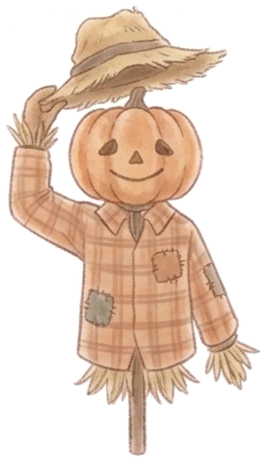
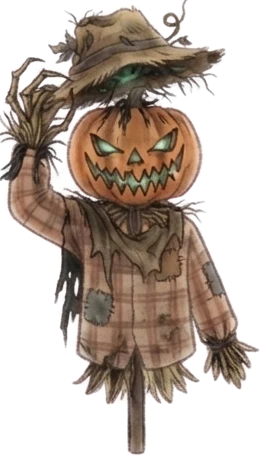
Little Hollow Halloween: the scarecrow turns haunting for a moment as he tips his hat; the cat fades in standing, then turns and sits
Claude-Session: https://claude.ai/code/session_019MTJUgo2eSoe3fVWqeMEns

diff --git a/index.html b/index.html
@@ -13,7 +13,7 @@
 <link rel="apple-touch-icon" href="apple-touch-icon.png">
 <link rel="icon" type="image/png" href="apple-touch-icon.png">
 <style>html,body{background:#252D2C;height:100%;margin:0}</style>
-<script>window.__plannerBuild = 'Nov 25, 5:17 PM';</script>
+<script>window.__plannerBuild = 'Nov 25, 5:20 PM';</script>
 <script src="dc-runtime.js"></script>
 </head>
 <body>
@@ -5750,7 +5750,7 @@ class Component extends DCLogic {
   // Theme accent colors are CSS variables (--tXXXXXX, named after the Flowery color they replace).
   // Theme packages: each is a self-contained theme.json (+ art) — built-in ones are bundled below; later, downloaded ones join the same list.
   themePackages() {
-    if (!this._pkgs) { this._pkgs = {}; const arr = /*THEME-PACKAGES*/[{"format":1,"id":"littlehollow","version":15,"kind":"storybook","updated":"2026-11-25","notes":["Spring blossom set","A squirrel on the branch","New friend: a robin who fluffs and shakes, then lets a blossom fall","New friend: a hedgehog by the basket who sniffs and smiles when a blossom lands","New friend: a caterpillar on the branch who reaches up and nudges a blossom loose","New friend: a bee who loops around her flower while a blossom drifts down","The basket under the branch fills with blossoms as you finish the day's Must do and Should do, and starts fresh each morning","Winter: a snowy branch with red berries, a snowy meadow, and a basket that fills with pinecones (December to February)","New winter friends: a chickadee who puffs up against the cold, and a bunny in a scarf whose ears perk up","More winter friends: a cardinal who hops, a sleepy bear cub who peeks with one eye, and a fox curled in her tail","Christmas: fairy lights on Christmas Eve; colorful lights and a snowman friend on Christmas Day","Autumn (September to November): a branch with orange and gold leaves, a meadow with mushrooms and a little pumpkin, and a basket that fills with acorns. The squirrel is back","New autumn friends: a sleepy owlet who blinks awake, and a chipmunk who puffs her cheeks","New autumn friend: a raccoon by the basket. Special days: a turkey on Thanksgiving; on Halloween a black cat walks along the branch and a pumpkin scarecrow tips his hat"],"name":"Little Hollow","blurb":"A little tree, a meadow and woodland friends who visit as the seasons change.","storybook":true,"perks":["Animated","Changes with the seasons","Rotating animal friends"],"card":"card.webp","art":"img","binder":{"cover":"linen","rings":"brass"},"tabPal":["#B06F80","#879A76","#9C8270","#B48A5A","#7E5A6E"],"tabs":{"day":["#F4D9DE","#A0526A"],"week":["#F6DCCB","#B5683F"],"month":["#DCE6D3","#5E7F55"],"desk":["#F3E6B8","#8F7020"],"goals":["#E4DAEE","#6E5A94"],"school":["#D6E2EC","#4C6F8F"],"journal":["#ECD6E0","#8A4E6B"]},"vars":{"FBEDEE":"#F6EEE9","F6EDEF":"#F5EFEA","FAEAEE":"#F6EDE8","F3E6EA":"#F1E8E3","E2B9C4":"#DCC6BF","E7B7C2":"#DFC8C1","EBC3CD":"#E6D2CB"},"swatches":{"red":["Blossom","#B5707A"],"yellow":["Honey","#C29A4E"],"blue":["Dusk","#7A8FA6"],"green":["Sage","#879A76"],"orange":["Acorn","#B5835A"],"gray":["Taupe","#9C8270"]},"catSwatches":{"blue":["Dusk","#6E86A0"],"orange":["Acorn","#B07A52"],"green":["Sage","#77906A"],"rose":["Blossom","#A8667A"],"plum":["Plum","#6E2F43"],"gold":["Honey","#A88A44"],"teal":["Moss","#5E8E88"],"lavender":["Lilac","#8A779E"],"slate":["Stone","#7E7A74"],"brown":["Bark","#8A6A50"]},"fHead":"'Olesia', 'Dancing Script', Georgia, serif","fBody":"'Atkinson Hyperlegible', system-ui, -apple-system, sans-serif","fontFace":{"family":"Olesia","file":"olesia.woff2"},"paper":"#FBF7F1","quote":"Every blossom opens in its own time, and so will you.","quotes":["Every blossom opens in its own time, and so will you.","Small steps still bloom.","Tend to today. Tomorrow will keep.","Rest is part of growing.","One petal at a time.","You are allowed to go slowly.","Plant one good thing today."],"img":{"dir":"themes/littlehollow/","paper":"paper.webp"},"scene":{"sets":[{"id":"spring-blossom","name":"Spring blossom","months":[],"perch":0.89,"under":[{"page":"L","anchor":"spread","src":"branch-2.webp","ar":4.068,"h":226,"y":-26,"padH":190},{"page":"R","anchor":"spread","src":"branch-2.webp","ar":4.068,"h":226,"y":-26,"padH":190},{"page":"L","anchor":"spreadBottom","src":"grass.webp","h":96,"y":0},{"page":"R","anchor":"spreadBottom","src":"grass.webp","h":96,"y":0}],"extras":[{"page":"R","anchor":"bl","src":"snail.webp","w":34,"h":25,"x":300,"y":4},{"page":"R","anchor":"bl","src":"bee.webp","w":26,"h":23,"x":250,"y":58}],"pile":{"page":"R","anchor":"underPerch","x":120,"y":2,"w":84,"h":106,"states":[{"src":"basket-spring-0.webp","pct":0},{"src":"basket-spring-1.webp","pct":1},{"src":"basket-spring-2.webp","pct":34},{"src":"basket-spring-3.webp","pct":67},{"src":"basket-spring-4.webp","pct":100}],"dx":-58,"per":"day"},"item":{"name":"blossom","src":"blossom.webp","w":18,"h":17},"driftY":118},{"id":"autumn-leaves","name":"Autumn leaves","months":[9,10,11],"perch":0.89,"under":[{"page":"L","anchor":"spread","src":"branch-autumn.webp","ar":3.229,"h":285,"y":-26,"padH":190},{"page":"R","anchor":"spread","src":"branch-autumn.webp","ar":3.229,"h":285,"y":-26,"padH":190},{"page":"L","anchor":"spreadBottom","src":"grass-autumn.webp","h":90,"y":0},{"page":"R","anchor":"spreadBottom","src":"grass-autumn.webp","h":90,"y":0}],"extras":[],"pile":{"page":"R","anchor":"underPerch","x":120,"y":2,"w":84,"h":106,"states":[{"src":"basket-autumn-0.webp","pct":0},{"src":"basket-autumn-1.webp","pct":1},{"src":"basket-autumn-2.webp","pct":34},{"src":"basket-autumn-3.webp","pct":67},{"src":"basket-autumn-4.webp","pct":100}],"dx":-58,"per":"day"},"item":{"name":"acorn","src":"acorn-autumn.webp","w":15,"h":17},"driftY":118,"quotes":["Gather what you can; let the rest fall.","Even small acorns grow into something strong.","Slow down and notice the colors.","Change can be beautiful too.","One acorn at a time.","It's okay to rest and store up your energy.","Little by little, the basket fills."]},{"id":"winter-snow","name":"Winter snow","months":[12,1,2],"perch":0.89,"under":[{"page":"L","anchor":"spread","src":"branch-winter.webp","ar":4.068,"h":226,"y":-26,"padH":190},{"page":"R","anchor":"spread","src":"branch-winter.webp","ar":4.068,"h":226,"y":-26,"padH":190},{"page":"L","anchor":"spreadBottom","src":"grass-winter.webp","h":104,"y":0},{"page":"R","anchor":"spreadBottom","src":"grass-winter.webp","h":104,"y":0}],"extras":[],"pile":{"page":"R","anchor":"underPerch","x":120,"y":2,"w":84,"h":106,"states":[{"src":"basket-winter-0.webp","pct":0},{"src":"basket-winter-1.webp","pct":1},{"src":"basket-winter-2.webp","pct":34},{"src":"basket-winter-3.webp","pct":67},{"src":"basket-winter-4.webp","pct":100}],"dx":-58,"per":"day"},"item":{"name":"pinecone","src":"pinecone.webp","w":15,"h":17},"driftY":118,"quotes":["Rest is part of the season too.","Even bare branches are getting ready to bloom.","Slow and cozy still counts.","Small steps leave footprints in the snow.","Keep a little warmth for yourself today.","Quiet days are growing days.","One pinecone at a time."]}],"casts":[{"id":"squirrels","name":"A squirrel on the branch","over":[{"page":"R","anchor":"onStrip","src":"squirrel-toss-empty.webp","w":126,"h":74,"x":56,"y":41,"holds":{"x":-2,"y":49}}],"moment":"drop","sets":["autumn-leaves"]},{"id":"raccoon","name":"A raccoon by the basket","sets":["autumn-leaves"],"over":[{"page":"R","anchor":"byPile","src":"raccoon-1.webp","w":83,"h":68,"x":6,"y":3,"frames":[{"src":"raccoon-2.webp","from":1.3,"to":2.3},{"src":"raccoon-3.webp","from":2.3,"to":3.4}]}]},{"id":"chipmunk","name":"A chipmunk on the branch","moment":"drop","sets":["autumn-leaves"],"dropDelay":0.6,"over":[{"page":"R","anchor":"onStrip","src":"chipmunk-1.webp","w":77,"h":66,"x":56,"y":50,"holds":{"x":55,"y":33},"xfade":0.15,"frames":[{"src":"chipmunk-2.webp","from":0.0,"to":0.7},{"src":"chipmunk-3.webp","from":0.7,"to":1.7}]}]},{"id":"owlet","name":"An owlet on the branch","moment":"drop","sets":["autumn-leaves"],"dropDelay":0.5,"over":[{"page":"R","anchor":"onStrip","src":"owlet-1.webp","w":59,"h":63,"x":56,"y":54,"holds":{"x":4,"y":31},"xfade":0.15,"frames":[{"src":"owlet-2.webp","from":0.0,"to":0.6},{"src":"owlet-3.webp","from":0.6,"to":1.6}]}]},{"id":"bee","name":"A bee and her flower","over":[{"page":"R","anchor":"bl","src":"bee-flower.webp","w":36,"h":102,"x":150,"y":4},{"page":"R","anchor":"bl","src":"bee-wings-up.webp","srcFlap":"bee-wings-down.webp","w":34,"h":33,"x":166,"y":86,"buzz":true}],"hide":["bee.webp"],"sets":["spring-blossom"]},{"id":"robin","name":"A robin on the branch","moment":"drop","over":[{"page":"R","anchor":"onStrip","src":"robin-1.webp","srcFlap":"robin-2.webp","shake":true,"w":90,"h":78,"x":56,"y":53,"holds":{"x":6,"y":21}}],"sets":["spring-blossom"]},{"id":"hedgehog","name":"A hedgehog by the basket","over":[{"page":"R","anchor":"byPile","src":"hedgehog-1.webp","w":66,"h":48,"x":6,"y":3,"frames":[{"src":"hedgehog-2.webp","from":1.3,"to":2.3},{"src":"hedgehog-3.webp","from":2.3,"to":3.4}]}],"hide":["snail.webp"],"sets":["spring-blossom"]},{"id":"caterpillar","name":"A caterpillar on the branch","dropDelay":0.75,"over":[{"page":"R","anchor":"onStrip","src":"caterpillar-1.webp","w":74,"h":61,"x":56,"y":69,"frames":[{"src":"caterpillar-2.webp","from":0.05,"to":1.0},{"src":"caterpillar-3.webp","from":1.0,"to":2.7}]}],"nudge":{"x":58,"y":46},"sets":["spring-blossom"]},{"id":"chickadee","name":"A chickadee on the branch","moment":"drop","sets":["winter-snow"],"over":[{"page":"R","anchor":"onStrip","src":"chickadee-1.webp","srcFlap":"chickadee-2.webp","shake":true,"w":84,"h":57,"x":56,"y":61,"holds":{"x":0,"y":8}}]},{"id":"bear","name":"A sleepy bear cub","sets":["winter-snow"],"over":[{"page":"R","anchor":"byPile","src":"bear-1.webp","w":82,"h":55,"x":6,"y":3,"frames":[{"src":"bear-2.webp","from":1.3,"to":2.3},{"src":"bear-3.webp","from":2.3,"to":3.4}]}]},{"id":"cardinal","name":"A cardinal on the branch","moment":"drop","sets":["winter-snow"],"dropDelay":0.1,"over":[{"page":"R","anchor":"onStrip","src":"cardinal-1.webp","w":90,"h":72,"x":56,"y":46,"holds":{"x":-4,"y":29},"xfade":0.08,"frames":[{"src":"cardinal-2.webp","from":0.0,"to":0.4},{"src":"cardinal-3.webp","from":0.4,"to":1.3}]}]},{"id":"bunny","name":"A bunny in a scarf","sets":["winter-snow"],"over":[{"page":"R","anchor":"byPile","src":"bunny-1.webp","w":64,"h":73,"x":6,"y":3,"frames":[{"src":"bunny-2.webp","from":1.3,"to":2.3},{"src":"bunny-3.webp","from":2.3,"to":3.4}]}]},{"id":"fox","name":"A fox curled in her tail","sets":["winter-snow"],"over":[{"page":"R","anchor":"byPile","src":"fox-1.webp","w":82,"h":73,"x":6,"y":3,"frames":[{"src":"fox-2.webp","from":1.3,"to":2.3},{"src":"fox-3.webp","from":2.3,"to":3.4}]}]},{"id":"snowman","name":"A snowman (Christmas Day)","sets":[],"over":[{"page":"R","anchor":"byPileR","src":"snowman-1.webp","w":104,"h":154,"x":8,"y":2,"frames":[{"src":"snowman-2.webp","from":1.3,"to":2.3},{"src":"snowman-3.webp","from":2.3,"to":3.4}]}]},{"id":"turkey","name":"A turkey (Thanksgiving)","sets":[],"over":[{"page":"R","anchor":"byPileR","src":"turkey-1.webp","w":132,"h":122,"x":10,"y":2,"frames":[{"src":"turkey-2.webp","from":1.3,"to":2.3},{"src":"turkey-3.webp","from":2.3,"to":3.4}]}]},{"id":"halloween","name":"A black cat and a pumpkin scarecrow (Halloween)","sets":[],"over":[{"page":"R","anchor":"onStrip","src":"cat-3.webp","w":68,"h":64,"x":56,"y":52,"arrive":{"walk":["cat-1.webp","cat-2.webp"],"from":150,"dur":1.9},"xfade":0.2,"frames":[{"src":"cat-4.webp","from":0.2,"to":1.8}]},{"page":"R","anchor":"byPileR","src":"scarecrow-1.webp","w":88,"h":152,"x":6,"y":2,"frames":[{"src":"scarecrow-2.webp","from":1.3,"to":2.3},{"src":"scarecrow-3.webp","from":2.3,"to":3.4}]}]}],"quote":"underDate","quoteClear":170,"quoteY":88,"specials":[{"id":"christmas-eve","name":"Christmas Eve","date":"12-24","sets":["winter-snow"],"swap":{"branch-winter.webp":{"src":"branch-xmas-eve.webp","ar":3.229,"h":285}},"quotes":["The quietest night is full of little lights."]},{"id":"christmas","name":"Christmas Day","date":"12-25","sets":["winter-snow"],"cast":"snowman","swap":{"branch-winter.webp":{"src":"branch-xmas-day.webp","ar":3.229,"h":285}},"quotes":["Merry Christmas. Rest is a gift too."],"pile":{"dx":-150}},{"id":"thanksgiving","name":"Thanksgiving","rule":"nth:11:4:4","sets":["autumn-leaves"],"cast":"turkey","pile":{"dx":-150},"quotes":["Grateful for every small step."]},{"id":"halloween","name":"Halloween","date":"10-31","sets":["autumn-leaves"],"cast":"halloween","pile":{"dx":-150},"quotes":["A little magic in every small step."]}]}}]/*END-THEME-PACKAGES*/; arr.forEach(p => { this._pkgs[p.id] = p; }); }
+    if (!this._pkgs) { this._pkgs = {}; const arr = /*THEME-PACKAGES*/[{"format":1,"id":"littlehollow","version":15,"kind":"storybook","updated":"2026-11-25","notes":["Spring blossom set","A squirrel on the branch","New friend: a robin who fluffs and shakes, then lets a blossom fall","New friend: a hedgehog by the basket who sniffs and smiles when a blossom lands","New friend: a caterpillar on the branch who reaches up and nudges a blossom loose","New friend: a bee who loops around her flower while a blossom drifts down","The basket under the branch fills with blossoms as you finish the day's Must do and Should do, and starts fresh each morning","Winter: a snowy branch with red berries, a snowy meadow, and a basket that fills with pinecones (December to February)","New winter friends: a chickadee who puffs up against the cold, and a bunny in a scarf whose ears perk up","More winter friends: a cardinal who hops, a sleepy bear cub who peeks with one eye, and a fox curled in her tail","Christmas: fairy lights on Christmas Eve; colorful lights and a snowman friend on Christmas Day","Autumn (September to November): a branch with orange and gold leaves, a meadow with mushrooms and a little pumpkin, and a basket that fills with acorns. The squirrel is back","New autumn friends: a sleepy owlet who blinks awake, and a chipmunk who puffs her cheeks","New autumn friend: a raccoon by the basket. Special days: a turkey on Thanksgiving; on Halloween a black cat walks along the branch and a pumpkin scarecrow tips his hat"],"name":"Little Hollow","blurb":"A little tree, a meadow and woodland friends who visit as the seasons change.","storybook":true,"perks":["Animated","Changes with the seasons","Rotating animal friends"],"card":"card.webp","art":"img","binder":{"cover":"linen","rings":"brass"},"tabPal":["#B06F80","#879A76","#9C8270","#B48A5A","#7E5A6E"],"tabs":{"day":["#F4D9DE","#A0526A"],"week":["#F6DCCB","#B5683F"],"month":["#DCE6D3","#5E7F55"],"desk":["#F3E6B8","#8F7020"],"goals":["#E4DAEE","#6E5A94"],"school":["#D6E2EC","#4C6F8F"],"journal":["#ECD6E0","#8A4E6B"]},"vars":{"FBEDEE":"#F6EEE9","F6EDEF":"#F5EFEA","FAEAEE":"#F6EDE8","F3E6EA":"#F1E8E3","E2B9C4":"#DCC6BF","E7B7C2":"#DFC8C1","EBC3CD":"#E6D2CB"},"swatches":{"red":["Blossom","#B5707A"],"yellow":["Honey","#C29A4E"],"blue":["Dusk","#7A8FA6"],"green":["Sage","#879A76"],"orange":["Acorn","#B5835A"],"gray":["Taupe","#9C8270"]},"catSwatches":{"blue":["Dusk","#6E86A0"],"orange":["Acorn","#B07A52"],"green":["Sage","#77906A"],"rose":["Blossom","#A8667A"],"plum":["Plum","#6E2F43"],"gold":["Honey","#A88A44"],"teal":["Moss","#5E8E88"],"lavender":["Lilac","#8A779E"],"slate":["Stone","#7E7A74"],"brown":["Bark","#8A6A50"]},"fHead":"'Olesia', 'Dancing Script', Georgia, serif","fBody":"'Atkinson Hyperlegible', system-ui, -apple-system, sans-serif","fontFace":{"family":"Olesia","file":"olesia.woff2"},"paper":"#FBF7F1","quote":"Every blossom opens in its own time, and so will you.","quotes":["Every blossom opens in its own time, and so will you.","Small steps still bloom.","Tend to today. Tomorrow will keep.","Rest is part of growing.","One petal at a time.","You are allowed to go slowly.","Plant one good thing today."],"img":{"dir":"themes/littlehollow/","paper":"paper.webp"},"scene":{"sets":[{"id":"spring-blossom","name":"Spring blossom","months":[],"perch":0.89,"under":[{"page":"L","anchor":"spread","src":"branch-2.webp","ar":4.068,"h":226,"y":-26,"padH":190},{"page":"R","anchor":"spread","src":"branch-2.webp","ar":4.068,"h":226,"y":-26,"padH":190},{"page":"L","anchor":"spreadBottom","src":"grass.webp","h":96,"y":0},{"page":"R","anchor":"spreadBottom","src":"grass.webp","h":96,"y":0}],"extras":[{"page":"R","anchor":"bl","src":"snail.webp","w":34,"h":25,"x":300,"y":4},{"page":"R","anchor":"bl","src":"bee.webp","w":26,"h":23,"x":250,"y":58}],"pile":{"page":"R","anchor":"underPerch","x":120,"y":2,"w":84,"h":106,"states":[{"src":"basket-spring-0.webp","pct":0},{"src":"basket-spring-1.webp","pct":1},{"src":"basket-spring-2.webp","pct":34},{"src":"basket-spring-3.webp","pct":67},{"src":"basket-spring-4.webp","pct":100}],"dx":-58,"per":"day"},"item":{"name":"blossom","src":"blossom.webp","w":18,"h":17},"driftY":118},{"id":"autumn-leaves","name":"Autumn leaves","months":[9,10,11],"perch":0.89,"under":[{"page":"L","anchor":"spread","src":"branch-autumn.webp","ar":3.229,"h":285,"y":-26,"padH":190},{"page":"R","anchor":"spread","src":"branch-autumn.webp","ar":3.229,"h":285,"y":-26,"padH":190},{"page":"L","anchor":"spreadBottom","src":"grass-autumn.webp","h":90,"y":0},{"page":"R","anchor":"spreadBottom","src":"grass-autumn.webp","h":90,"y":0}],"extras":[],"pile":{"page":"R","anchor":"underPerch","x":120,"y":2,"w":84,"h":106,"states":[{"src":"basket-autumn-0.webp","pct":0},{"src":"basket-autumn-1.webp","pct":1},{"src":"basket-autumn-2.webp","pct":34},{"src":"basket-autumn-3.webp","pct":67},{"src":"basket-autumn-4.webp","pct":100}],"dx":-58,"per":"day"},"item":{"name":"acorn","src":"acorn-autumn.webp","w":15,"h":17},"driftY":118,"quotes":["Gather what you can; let the rest fall.","Even small acorns grow into something strong.","Slow down and notice the colors.","Change can be beautiful too.","One acorn at a time.","It's okay to rest and store up your energy.","Little by little, the basket fills."]},{"id":"winter-snow","name":"Winter snow","months":[12,1,2],"perch":0.89,"under":[{"page":"L","anchor":"spread","src":"branch-winter.webp","ar":4.068,"h":226,"y":-26,"padH":190},{"page":"R","anchor":"spread","src":"branch-winter.webp","ar":4.068,"h":226,"y":-26,"padH":190},{"page":"L","anchor":"spreadBottom","src":"grass-winter.webp","h":104,"y":0},{"page":"R","anchor":"spreadBottom","src":"grass-winter.webp","h":104,"y":0}],"extras":[],"pile":{"page":"R","anchor":"underPerch","x":120,"y":2,"w":84,"h":106,"states":[{"src":"basket-winter-0.webp","pct":0},{"src":"basket-winter-1.webp","pct":1},{"src":"basket-winter-2.webp","pct":34},{"src":"basket-winter-3.webp","pct":67},{"src":"basket-winter-4.webp","pct":100}],"dx":-58,"per":"day"},"item":{"name":"pinecone","src":"pinecone.webp","w":15,"h":17},"driftY":118,"quotes":["Rest is part of the season too.","Even bare branches are getting ready to bloom.","Slow and cozy still counts.","Small steps leave footprints in the snow.","Keep a little warmth for yourself today.","Quiet days are growing days.","One pinecone at a time."]}],"casts":[{"id":"squirrels","name":"A squirrel on the branch","over":[{"page":"R","anchor":"onStrip","src":"squirrel-toss-empty.webp","w":126,"h":74,"x":56,"y":41,"holds":{"x":-2,"y":49}}],"moment":"drop","sets":["autumn-leaves"]},{"id":"raccoon","name":"A raccoon by the basket","sets":["autumn-leaves"],"over":[{"page":"R","anchor":"byPile","src":"raccoon-1.webp","w":83,"h":68,"x":6,"y":3,"frames":[{"src":"raccoon-2.webp","from":1.3,"to":2.3},{"src":"raccoon-3.webp","from":2.3,"to":3.4}]}]},{"id":"chipmunk","name":"A chipmunk on the branch","moment":"drop","sets":["autumn-leaves"],"dropDelay":0.6,"over":[{"page":"R","anchor":"onStrip","src":"chipmunk-1.webp","w":77,"h":66,"x":56,"y":50,"holds":{"x":55,"y":33},"xfade":0.15,"frames":[{"src":"chipmunk-2.webp","from":0.0,"to":0.7},{"src":"chipmunk-3.webp","from":0.7,"to":1.7}]}]},{"id":"owlet","name":"An owlet on the branch","moment":"drop","sets":["autumn-leaves"],"dropDelay":0.5,"over":[{"page":"R","anchor":"onStrip","src":"owlet-1.webp","w":59,"h":63,"x":56,"y":54,"holds":{"x":4,"y":31},"xfade":0.15,"frames":[{"src":"owlet-2.webp","from":0.0,"to":0.6},{"src":"owlet-3.webp","from":0.6,"to":1.6}]}]},{"id":"bee","name":"A bee and her flower","over":[{"page":"R","anchor":"bl","src":"bee-flower.webp","w":36,"h":102,"x":150,"y":4},{"page":"R","anchor":"bl","src":"bee-wings-up.webp","srcFlap":"bee-wings-down.webp","w":34,"h":33,"x":166,"y":86,"buzz":true}],"hide":["bee.webp"],"sets":["spring-blossom"]},{"id":"robin","name":"A robin on the branch","moment":"drop","over":[{"page":"R","anchor":"onStrip","src":"robin-1.webp","srcFlap":"robin-2.webp","shake":true,"w":90,"h":78,"x":56,"y":53,"holds":{"x":6,"y":21}}],"sets":["spring-blossom"]},{"id":"hedgehog","name":"A hedgehog by the basket","over":[{"page":"R","anchor":"byPile","src":"hedgehog-1.webp","w":66,"h":48,"x":6,"y":3,"frames":[{"src":"hedgehog-2.webp","from":1.3,"to":2.3},{"src":"hedgehog-3.webp","from":2.3,"to":3.4}]}],"hide":["snail.webp"],"sets":["spring-blossom"]},{"id":"caterpillar","name":"A caterpillar on the branch","dropDelay":0.75,"over":[{"page":"R","anchor":"onStrip","src":"caterpillar-1.webp","w":74,"h":61,"x":56,"y":69,"frames":[{"src":"caterpillar-2.webp","from":0.05,"to":1.0},{"src":"caterpillar-3.webp","from":1.0,"to":2.7}]}],"nudge":{"x":58,"y":46},"sets":["spring-blossom"]},{"id":"chickadee","name":"A chickadee on the branch","moment":"drop","sets":["winter-snow"],"over":[{"page":"R","anchor":"onStrip","src":"chickadee-1.webp","srcFlap":"chickadee-2.webp","shake":true,"w":84,"h":57,"x":56,"y":61,"holds":{"x":0,"y":8}}]},{"id":"bear","name":"A sleepy bear cub","sets":["winter-snow"],"over":[{"page":"R","anchor":"byPile","src":"bear-1.webp","w":82,"h":55,"x":6,"y":3,"frames":[{"src":"bear-2.webp","from":1.3,"to":2.3},{"src":"bear-3.webp","from":2.3,"to":3.4}]}]},{"id":"cardinal","name":"A cardinal on the branch","moment":"drop","sets":["winter-snow"],"dropDelay":0.1,"over":[{"page":"R","anchor":"onStrip","src":"cardinal-1.webp","w":90,"h":72,"x":56,"y":46,"holds":{"x":-4,"y":29},"xfade":0.08,"frames":[{"src":"cardinal-2.webp","from":0.0,"to":0.4},{"src":"cardinal-3.webp","from":0.4,"to":1.3}]}]},{"id":"bunny","name":"A bunny in a scarf","sets":["winter-snow"],"over":[{"page":"R","anchor":"byPile","src":"bunny-1.webp","w":64,"h":73,"x":6,"y":3,"frames":[{"src":"bunny-2.webp","from":1.3,"to":2.3},{"src":"bunny-3.webp","from":2.3,"to":3.4}]}]},{"id":"fox","name":"A fox curled in her tail","sets":["winter-snow"],"over":[{"page":"R","anchor":"byPile","src":"fox-1.webp","w":82,"h":73,"x":6,"y":3,"frames":[{"src":"fox-2.webp","from":1.3,"to":2.3},{"src":"fox-3.webp","from":2.3,"to":3.4}]}]},{"id":"snowman","name":"A snowman (Christmas Day)","sets":[],"over":[{"page":"R","anchor":"byPileR","src":"snowman-1.webp","w":104,"h":154,"x":8,"y":2,"frames":[{"src":"snowman-2.webp","from":1.3,"to":2.3},{"src":"snowman-3.webp","from":2.3,"to":3.4}]}]},{"id":"turkey","name":"A turkey (Thanksgiving)","sets":[],"over":[{"page":"R","anchor":"byPileR","src":"turkey-1.webp","w":132,"h":122,"x":10,"y":2,"frames":[{"src":"turkey-2.webp","from":1.3,"to":2.3},{"src":"turkey-3.webp","from":2.3,"to":3.4}]}]},{"id":"halloween","name":"A black cat and a pumpkin scarecrow (Halloween)","sets":[],"over":[{"page":"R","anchor":"onStrip","src":"cat-3.webp","w":68,"h":64,"x":56,"y":52,"arrive":{"walk":["cat-1.webp"],"from":0,"dur":2.0},"xfade":0.2,"frames":[{"src":"cat-4.webp","from":0.2,"to":1.8}]},{"page":"R","anchor":"byPileR","src":"scarecrow-1.webp","w":88,"h":152,"x":6,"y":2,"frames":[{"src":"scarecrow-2.webp","from":1.3,"to":2.3},{"src":"scarecrow-3.webp","from":2.3,"to":3.4}]}]}],"quote":"underDate","quoteClear":170,"quoteY":88,"specials":[{"id":"christmas-eve","name":"Christmas Eve","date":"12-24","sets":["winter-snow"],"swap":{"branch-winter.webp":{"src":"branch-xmas-eve.webp","ar":3.229,"h":285}},"quotes":["The quietest night is full of little lights."]},{"id":"christmas","name":"Christmas Day","date":"12-25","sets":["winter-snow"],"cast":"snowman","swap":{"branch-winter.webp":{"src":"branch-xmas-day.webp","ar":3.229,"h":285}},"quotes":["Merry Christmas. Rest is a gift too."],"pile":{"dx":-150}},{"id":"thanksgiving","name":"Thanksgiving","rule":"nth:11:4:4","sets":["autumn-leaves"],"cast":"turkey","pile":{"dx":-150},"quotes":["Grateful for every small step."]},{"id":"halloween","name":"Halloween","date":"10-31","sets":["autumn-leaves"],"cast":"halloween","pile":{"dx":-150},"quotes":["A little magic in every small step."]}]}}]/*END-THEME-PACKAGES*/; arr.forEach(p => { this._pkgs[p.id] = p; }); }
     return this._pkgs;
   }
   themeDef(id) {
@@ -5927,8 +5927,14 @@ class Component extends DCLogic {
           kf('sceneWalk' + n + '_' + from, 'from{translate:' + from + 'px 0}to{translate:0 0}');
           kf('sceneStepA' + n, '0%{opacity:1}50%{opacity:0}'); kf('sceneStepB' + n, '0%{opacity:0}50%{opacity:1}');
           kf('sceneSitIn' + n, '0%{opacity:0}97%{opacity:0}100%{opacity:1}');
-          ly.arrive.walk.forEach((w, i) => { const wb = box(Object.assign({}, ly, { src: w, frames: null, arrive: null, _friend: false, srcFlap: null })); wb.op = '0'; wb.anim = 'sceneWalk' + n + '_' + from + ' ' + D + 's linear forwards, ' + (i ? 'sceneStepB' : 'sceneStepA') + n + ' ' + st + 's steps(1) ' + it; out.push(wb); });
-          arr = 'sceneSitIn' + n + ' ' + D + 's linear both';
+          if (ly.arrive.walk.length === 1 && !ly.arrive.from) {
+            // she fades in standing, holds a moment, then turns and sits
+            kf('sceneStandIn' + n, '0%{opacity:0}22%{opacity:1}80%{opacity:1}100%{opacity:0}');
+            kf('sceneSitIn2' + n, '0%{opacity:0}80%{opacity:0}100%{opacity:1}');
+            const wb = box(Object.assign({}, ly, { src: ly.arrive.walk[0], frames: null, arrive: null, _friend: false, srcFlap: null })); wb.op = '0'; wb.anim = 'sceneStandIn' + n + ' ' + D + 's linear forwards'; out.push(wb);
+            arr = 'sceneSitIn2' + n + ' ' + D + 's linear both';
+          } else ly.arrive.walk.forEach((w, i) => { const wb = box(Object.assign({}, ly, { src: w, frames: null, arrive: null, _friend: false, srcFlap: null })); wb.op = '0'; wb.anim = 'sceneWalk' + n + '_' + from + ' ' + D + 's linear forwards, ' + (i ? 'sceneStepB' : 'sceneStepA') + n + ' ' + st + 's steps(1) ' + it; out.push(wb); });
+          if (!arr) arr = 'sceneSitIn' + n + ' ' + D + 's linear both';
         }
         const b = box(ly); out.push(b);
         if (arr) b.anim = arr + (s.sceneDrop && b.anim && b.anim.indexOf('sceneIn') !== 0 ? ', ' + b.anim : '');
@@ -6118,7 +6124,7 @@ class Component extends DCLogic {
   // Art for image themes: files next to the GitHub page, or the claude.ai copy's uploaded assets.
   themeAsset(t, name) {
     if (!t || !t.img || !name) return '';
-    const map = {'themes/littlehollow/raccoon-1.webp': '/_blob/8ab8c94d6119541cf7b34577689655c4', 'themes/littlehollow/raccoon-2.webp': '/_blob/9c9ee16cb02caab40edd0c3edd3f8943', 'themes/littlehollow/raccoon-3.webp': '/_blob/32652015e91e3a64eacc54ed6957fc17', 'themes/littlehollow/turkey-1.webp': '/_blob/5b37a8680d0837fe81fe76e02b217d09', 'themes/littlehollow/turkey-2.webp': '/_blob/bfa2f094fc87c844832a97433102927f', 'themes/littlehollow/turkey-3.webp': '/_blob/9083247f38bd09e352f1ea618f2e5bd0', 'themes/littlehollow/cat-1.webp': '/_blob/36f8bab6b412939c16b5e4af44dad498', 'themes/littlehollow/cat-2.webp': '/_blob/3a5b0eb83cc8c65323c6512e58507ca3', 'themes/littlehollow/cat-3.webp': '/_blob/30808d61a907b5bac45ef7eabd8ffb67', 'themes/littlehollow/cat-4.webp': '/_blob/b4df782a3373178c95310ea88cb71636', 'themes/littlehollow/scarecrow-1.webp': '/_blob/963d64c51e701b453dea25718e34cad3', 'themes/littlehollow/scarecrow-2.webp': '/_blob/d9e41d3cd6102f6c5d095a0670cb9bc8', 'themes/littlehollow/scarecrow-3.webp': '/_blob/6f2b451cb042a087ac23e35fa57bb058', 'themes/littlehollow/owlet-1.webp': '/_blob/74c09a12a017ce7f93cee7ccf38e70cf', 'themes/littlehollow/owlet-2.webp': '/_blob/8ef252e62bfc20fc6f3cc6cc905b359e', 'themes/littlehollow/owlet-3.webp': '/_blob/210d3d96e9b69c70be288a4f3444df97', 'themes/littlehollow/chipmunk-1.webp': '/_blob/0555eb0a22fa647be63c03393ab73cf3', 'themes/littlehollow/chipmunk-2.webp': '/_blob/6478695303dfe9f1a851c63cac5575ec', 'themes/littlehollow/chipmunk-3.webp': '/_blob/5738219aa277557d2f4550e216aca2e3', 'themes/littlehollow/branch-autumn.webp': '/_blob/65b4ef92371bb04ec9963271860b19ac', 'themes/littlehollow/grass-autumn.webp': '/_blob/d08d7cf6bb353fb2f9806be14dab3bfb', 'themes/littlehollow/basket-autumn-0.webp': '/_blob/b25d12907b1518fac580dfa8c02d5a84', 'themes/littlehollow/basket-autumn-1.webp': '/_blob/fd26dc2cff7314250a796940d1b50ebe', 'themes/littlehollow/basket-autumn-2.webp': '/_blob/4cb67f55329aebdf466f503605bf7c6c', 'themes/littlehollow/basket-autumn-3.webp': '/_blob/06f14371052aed1f6aeb4d88ea8af4ae', 'themes/littlehollow/basket-autumn-4.webp': '/_blob/893a2c3208608d4f88ac3cb4bb5313df', 'themes/littlehollow/acorn-autumn.webp': '/_blob/fa97e33b4cb32a2a0ccca9f2cbad3b58', 'themes/littlehollow/branch-xmas-eve.webp': '/_blob/44426b48af916f7d7d9f67375cb90120', 'themes/littlehollow/branch-xmas-day.webp': '/_blob/fc4cba30f0e16499c1f6c913f86c5c99', 'themes/littlehollow/snowman-1.webp': '/_blob/d68540ae70b815263989c9c240cd5c21', 'themes/littlehollow/snowman-2.webp': '/_blob/2443f0316c57b86875f251437a693488', 'themes/littlehollow/snowman-3.webp': '/_blob/021d47548a77d99bdebc44f974d130e9', 'themes/littlehollow/cardinal-1.webp': '/_blob/f87efe860c828a49e8a13f733b86e1ad', 'themes/littlehollow/cardinal-2.webp': '/_blob/27dd1f20cfdb4cf7fe59a80b8ee79477', 'themes/littlehollow/cardinal-3.webp': '/_blob/d18eebf31d7e0f37729b85c4b54ef8b1', 'themes/littlehollow/bear-1.webp': '/_blob/eb8e5fe69c39930fef272ba09fb84a14', 'themes/littlehollow/bear-2.webp': '/_blob/4e98a489ad36942b2911a6eb746619c2', 'themes/littlehollow/bear-3.webp': '/_blob/f2182fedb0224f3ee862cc35a594c0e1', 'themes/littlehollow/fox-1.webp': '/_blob/ecf84b53f0b68493985948376c2a374c', 'themes/littlehollow/fox-2.webp': '/_blob/96df9cff7d32465df5e67ef21806dff7', 'themes/littlehollow/fox-3.webp': '/_blob/29872bac567f501177b9ae6bb756cd13', 'themes/littlehollow/chickadee-1.webp': '/_blob/73ae8107938f099f2bcd5d399a622b0a', 'themes/littlehollow/chickadee-2.webp': '/_blob/bb9337ef2318399b0d2961f5571fa689', 'themes/littlehollow/bunny-1.webp': '/_blob/fe466a1c9f749ebc176f75d4ef220f8f', 'themes/littlehollow/bunny-2.webp': '/_blob/8a0265397929f52502f8ba2c23024b91', 'themes/littlehollow/bunny-3.webp': '/_blob/95d0173859265e7772d4213e2a03d7d3', 'themes/littlehollow/branch-winter.webp': '/_blob/9ae8759ac2b36b859614d3b10dfcd146', 'themes/littlehollow/grass-winter.webp': '/_blob/9f84054aff6d19862d5bae357770677d', 'themes/littlehollow/basket-winter-0.webp': '/_blob/190bfe8b1767697a1137268be6162011', 'themes/littlehollow/basket-winter-1.webp': '/_blob/250a9fdc4250f8d8f34a5a0606df35df', 'themes/littlehollow/basket-winter-2.webp': '/_blob/8ceb58683e687d9d1758383bc434b12b', 'themes/littlehollow/basket-winter-3.webp': '/_blob/562ebab1459485c42d0785b87e3d0906', 'themes/littlehollow/basket-winter-4.webp': '/_blob/b075b3df3362cec9625bacdd2f9b9cab', 'themes/littlehollow/pinecone.webp': '/_blob/cc5c689cc994221d5caa26dbda8a20b0', 'themes/littlehollow/caterpillar-1.webp': '/_blob/8f03361eadd705f5ff76490c19b5af38', 'themes/littlehollow/caterpillar-2.webp': '/_blob/aeed3f219cdabd006e580239430d0273', 'themes/littlehollow/caterpillar-3.webp': '/_blob/4d34aa3a0cff649c80ba81a8015b85e3', 'themes/littlehollow/hedgehog-1.webp': '/_blob/fea6e90b1200efaa286bf1cd6ab30a77', 'themes/littlehollow/hedgehog-2.webp': '/_blob/16f1d7d309a61018b894a78d0e9235e3', 'themes/littlehollow/hedgehog-3.webp': '/_blob/1a0ad11e95383949aba4b09abfb9aedf', 'themes/littlehollow/robin-1.webp': '/_blob/bc72ba2cac85c84230db500a009f0ec8', 'themes/littlehollow/robin-2.webp': '/_blob/be7d07e3b0f312d2d19d32c4fe46b26f', 'themes/littlehollow/basket-spring-0.webp': '/_blob/3b99a6ba96d5aa1e67a02b8ee08edbf3', 'themes/littlehollow/basket-spring-1.webp': '/_blob/82f81fc6766f23dbbc551b6d425529a5', 'themes/littlehollow/basket-spring-2.webp': '/_blob/17dca4a3a05f3f06247a2182e69a7222', 'themes/littlehollow/basket-spring-3.webp': '/_blob/6b8e3fa72d7ecf4eb4fffeb5af16e05d', 'themes/littlehollow/basket-spring-4.webp': '/_blob/bb4fb293dce66d1fac54662c959a6c41', 'themes/littlehollow/blossom.webp': '/_blob/81fe4d34bae56b7ff62567d8ca6fc554', 'themes/littlehollow/branch-2.webp': '/_blob/dbc7ee62000ddb4c1d0cc39dceb5ce0e', 'themes/littlehollow/paper.webp': '/_blob/d360c2c28dcce6ffb6783f982edf204d', 'themes/littlehollow/olesia.woff2': '/_blob/de8e491310b592e078c879c16cca8755', 'themes/littlehollow/basket-0.webp': '/_blob/b281d1479ab5466a0c8986e9e0a33e94', 'themes/littlehollow/basket-1.webp': '/_blob/4f34d59fa5523b976b0a7319bed68bb1', 'themes/littlehollow/basket-2.webp': '/_blob/02b255a0912194b54ce8b69966240976', 'themes/littlehollow/basket-3.webp': '/_blob/2536f5b7d751fcc93dcabd4a64fe635b', 'themes/littlehollow/basket-4.webp': '/_blob/bd9bae022cd19d703ba8413be852102b', 'themes/littlehollow/petal.webp': '/_blob/a00d08c0259492f8134bae3a3d6e484c', 'themes/littlehollow/bee-flower.webp': '/_blob/30c5455417b12e2c6b15f973fd881a90', 'themes/littlehollow/bee-wings-up.webp': '/_blob/b273b68a0475bc256a6ebbb2401becfc', 'themes/littlehollow/bee-wings-down.webp': '/_blob/da84d75741e82e9094f145f479539623', 'themes/littlehollow/card.webp': '/_blob/f8fb9d30a8146251bc0bac5869852ffc', 'themes/littlehollow/bee.webp': '/_blob/6f071e99b270820feeefd81ff2eac110', 'themes/littlehollow/snail.webp': '/_blob/d118efdf6604bf88239abdae1281e26f', 'themes/littlehollow/squirrel-toss-empty.webp': '/_blob/3a7278d2b5528719d1e5e8717b4fb982', 'themes/littlehollow/grass.webp': '/_blob/737124dd1f3448c0f709693450644293', 'themes/littlehollow/branch.webp': '/_blob/0569b8731a45d9736bf30a47aefb98fa', 'themes/littlehollow/acorn.webp': '/_blob/fd7694cdc68432a3a113a0800bcc8f44', 'themes/littlehollow/squirrel-toss.webp': '/_blob/3f3e33ac47e702c148d2981a351480ce', 'themes/littlehollow/squirrel-catch.webp': '/_blob/ae5421511bd271a1e52c55dff7b4b397'};
+    const map = {'themes/littlehollow/raccoon-1.webp': '/_blob/8ab8c94d6119541cf7b34577689655c4', 'themes/littlehollow/raccoon-2.webp': '/_blob/9c9ee16cb02caab40edd0c3edd3f8943', 'themes/littlehollow/raccoon-3.webp': '/_blob/32652015e91e3a64eacc54ed6957fc17', 'themes/littlehollow/turkey-1.webp': '/_blob/5b37a8680d0837fe81fe76e02b217d09', 'themes/littlehollow/turkey-2.webp': '/_blob/bfa2f094fc87c844832a97433102927f', 'themes/littlehollow/turkey-3.webp': '/_blob/9083247f38bd09e352f1ea618f2e5bd0', 'themes/littlehollow/cat-1.webp': '/_blob/36f8bab6b412939c16b5e4af44dad498', 'themes/littlehollow/cat-2.webp': '/_blob/3a5b0eb83cc8c65323c6512e58507ca3', 'themes/littlehollow/cat-3.webp': '/_blob/30808d61a907b5bac45ef7eabd8ffb67', 'themes/littlehollow/cat-4.webp': '/_blob/b4df782a3373178c95310ea88cb71636', 'themes/littlehollow/scarecrow-1.webp': '/_blob/963d64c51e701b453dea25718e34cad3', 'themes/littlehollow/scarecrow-2.webp': '/_blob/bd1b4c668aafd9c00055a05017a2faa3', 'themes/littlehollow/scarecrow-3.webp': '/_blob/6f2b451cb042a087ac23e35fa57bb058', 'themes/littlehollow/owlet-1.webp': '/_blob/74c09a12a017ce7f93cee7ccf38e70cf', 'themes/littlehollow/owlet-2.webp': '/_blob/8ef252e62bfc20fc6f3cc6cc905b359e', 'themes/littlehollow/owlet-3.webp': '/_blob/210d3d96e9b69c70be288a4f3444df97', 'themes/littlehollow/chipmunk-1.webp': '/_blob/0555eb0a22fa647be63c03393ab73cf3', 'themes/littlehollow/chipmunk-2.webp': '/_blob/6478695303dfe9f1a851c63cac5575ec', 'themes/littlehollow/chipmunk-3.webp': '/_blob/5738219aa277557d2f4550e216aca2e3', 'themes/littlehollow/branch-autumn.webp': '/_blob/65b4ef92371bb04ec9963271860b19ac', 'themes/littlehollow/grass-autumn.webp': '/_blob/d08d7cf6bb353fb2f9806be14dab3bfb', 'themes/littlehollow/basket-autumn-0.webp': '/_blob/b25d12907b1518fac580dfa8c02d5a84', 'themes/littlehollow/basket-autumn-1.webp': '/_blob/fd26dc2cff7314250a796940d1b50ebe', 'themes/littlehollow/basket-autumn-2.webp': '/_blob/4cb67f55329aebdf466f503605bf7c6c', 'themes/littlehollow/basket-autumn-3.webp': '/_blob/06f14371052aed1f6aeb4d88ea8af4ae', 'themes/littlehollow/basket-autumn-4.webp': '/_blob/893a2c3208608d4f88ac3cb4bb5313df', 'themes/littlehollow/acorn-autumn.webp': '/_blob/fa97e33b4cb32a2a0ccca9f2cbad3b58', 'themes/littlehollow/branch-xmas-eve.webp': '/_blob/44426b48af916f7d7d9f67375cb90120', 'themes/littlehollow/branch-xmas-day.webp': '/_blob/fc4cba30f0e16499c1f6c913f86c5c99', 'themes/littlehollow/snowman-1.webp': '/_blob/d68540ae70b815263989c9c240cd5c21', 'themes/littlehollow/snowman-2.webp': '/_blob/2443f0316c57b86875f251437a693488', 'themes/littlehollow/snowman-3.webp': '/_blob/021d47548a77d99bdebc44f974d130e9', 'themes/littlehollow/cardinal-1.webp': '/_blob/f87efe860c828a49e8a13f733b86e1ad', 'themes/littlehollow/cardinal-2.webp': '/_blob/27dd1f20cfdb4cf7fe59a80b8ee79477', 'themes/littlehollow/cardinal-3.webp': '/_blob/d18eebf31d7e0f37729b85c4b54ef8b1', 'themes/littlehollow/bear-1.webp': '/_blob/eb8e5fe69c39930fef272ba09fb84a14', 'themes/littlehollow/bear-2.webp': '/_blob/4e98a489ad36942b2911a6eb746619c2', 'themes/littlehollow/bear-3.webp': '/_blob/f2182fedb0224f3ee862cc35a594c0e1', 'themes/littlehollow/fox-1.webp': '/_blob/ecf84b53f0b68493985948376c2a374c', 'themes/littlehollow/fox-2.webp': '/_blob/96df9cff7d32465df5e67ef21806dff7', 'themes/littlehollow/fox-3.webp': '/_blob/29872bac567f501177b9ae6bb756cd13', 'themes/littlehollow/chickadee-1.webp': '/_blob/73ae8107938f099f2bcd5d399a622b0a', 'themes/littlehollow/chickadee-2.webp': '/_blob/bb9337ef2318399b0d2961f5571fa689', 'themes/littlehollow/bunny-1.webp': '/_blob/fe466a1c9f749ebc176f75d4ef220f8f', 'themes/littlehollow/bunny-2.webp': '/_blob/8a0265397929f52502f8ba2c23024b91', 'themes/littlehollow/bunny-3.webp': '/_blob/95d0173859265e7772d4213e2a03d7d3', 'themes/littlehollow/branch-winter.webp': '/_blob/9ae8759ac2b36b859614d3b10dfcd146', 'themes/littlehollow/grass-winter.webp': '/_blob/9f84054aff6d19862d5bae357770677d', 'themes/littlehollow/basket-winter-0.webp': '/_blob/190bfe8b1767697a1137268be6162011', 'themes/littlehollow/basket-winter-1.webp': '/_blob/250a9fdc4250f8d8f34a5a0606df35df', 'themes/littlehollow/basket-winter-2.webp': '/_blob/8ceb58683e687d9d1758383bc434b12b', 'themes/littlehollow/basket-winter-3.webp': '/_blob/562ebab1459485c42d0785b87e3d0906', 'themes/littlehollow/basket-winter-4.webp': '/_blob/b075b3df3362cec9625bacdd2f9b9cab', 'themes/littlehollow/pinecone.webp': '/_blob/cc5c689cc994221d5caa26dbda8a20b0', 'themes/littlehollow/caterpillar-1.webp': '/_blob/8f03361eadd705f5ff76490c19b5af38', 'themes/littlehollow/caterpillar-2.webp': '/_blob/aeed3f219cdabd006e580239430d0273', 'themes/littlehollow/caterpillar-3.webp': '/_blob/4d34aa3a0cff649c80ba81a8015b85e3', 'themes/littlehollow/hedgehog-1.webp': '/_blob/fea6e90b1200efaa286bf1cd6ab30a77', 'themes/littlehollow/hedgehog-2.webp': '/_blob/16f1d7d309a61018b894a78d0e9235e3', 'themes/littlehollow/hedgehog-3.webp': '/_blob/1a0ad11e95383949aba4b09abfb9aedf', 'themes/littlehollow/robin-1.webp': '/_blob/bc72ba2cac85c84230db500a009f0ec8', 'themes/littlehollow/robin-2.webp': '/_blob/be7d07e3b0f312d2d19d32c4fe46b26f', 'themes/littlehollow/basket-spring-0.webp': '/_blob/3b99a6ba96d5aa1e67a02b8ee08edbf3', 'themes/littlehollow/basket-spring-1.webp': '/_blob/82f81fc6766f23dbbc551b6d425529a5', 'themes/littlehollow/basket-spring-2.webp': '/_blob/17dca4a3a05f3f06247a2182e69a7222', 'themes/littlehollow/basket-spring-3.webp': '/_blob/6b8e3fa72d7ecf4eb4fffeb5af16e05d', 'themes/littlehollow/basket-spring-4.webp': '/_blob/bb4fb293dce66d1fac54662c959a6c41', 'themes/littlehollow/blossom.webp': '/_blob/81fe4d34bae56b7ff62567d8ca6fc554', 'themes/littlehollow/branch-2.webp': '/_blob/dbc7ee62000ddb4c1d0cc39dceb5ce0e', 'themes/littlehollow/paper.webp': '/_blob/d360c2c28dcce6ffb6783f982edf204d', 'themes/littlehollow/olesia.woff2': '/_blob/de8e491310b592e078c879c16cca8755', 'themes/littlehollow/basket-0.webp': '/_blob/b281d1479ab5466a0c8986e9e0a33e94', 'themes/littlehollow/basket-1.webp': '/_blob/4f34d59fa5523b976b0a7319bed68bb1', 'themes/littlehollow/basket-2.webp': '/_blob/02b255a0912194b54ce8b69966240976', 'themes/littlehollow/basket-3.webp': '/_blob/2536f5b7d751fcc93dcabd4a64fe635b', 'themes/littlehollow/basket-4.webp': '/_blob/bd9bae022cd19d703ba8413be852102b', 'themes/littlehollow/petal.webp': '/_blob/a00d08c0259492f8134bae3a3d6e484c', 'themes/littlehollow/bee-flower.webp': '/_blob/30c5455417b12e2c6b15f973fd881a90', 'themes/littlehollow/bee-wings-up.webp': '/_blob/b273b68a0475bc256a6ebbb2401becfc', 'themes/littlehollow/bee-wings-down.webp': '/_blob/da84d75741e82e9094f145f479539623', 'themes/littlehollow/card.webp': '/_blob/f8fb9d30a8146251bc0bac5869852ffc', 'themes/littlehollow/bee.webp': '/_blob/6f071e99b270820feeefd81ff2eac110', 'themes/littlehollow/snail.webp': '/_blob/d118efdf6604bf88239abdae1281e26f', 'themes/littlehollow/squirrel-toss-empty.webp': '/_blob/3a7278d2b5528719d1e5e8717b4fb982', 'themes/littlehollow/grass.webp': '/_blob/737124dd1f3448c0f709693450644293', 'themes/littlehollow/branch.webp': '/_blob/0569b8731a45d9736bf30a47aefb98fa', 'themes/littlehollow/acorn.webp': '/_blob/fd7694cdc68432a3a113a0800bcc8f44', 'themes/littlehollow/squirrel-toss.webp': '/_blob/3f3e33ac47e702c148d2981a351480ce', 'themes/littlehollow/squirrel-catch.webp': '/_blob/ae5421511bd271a1e52c55dff7b4b397'};
     if (typeof window !== 'undefined' && window.__plannerBuild) return t.img.dir + name;
     return map[t.img.dir + name] || '';
   }
